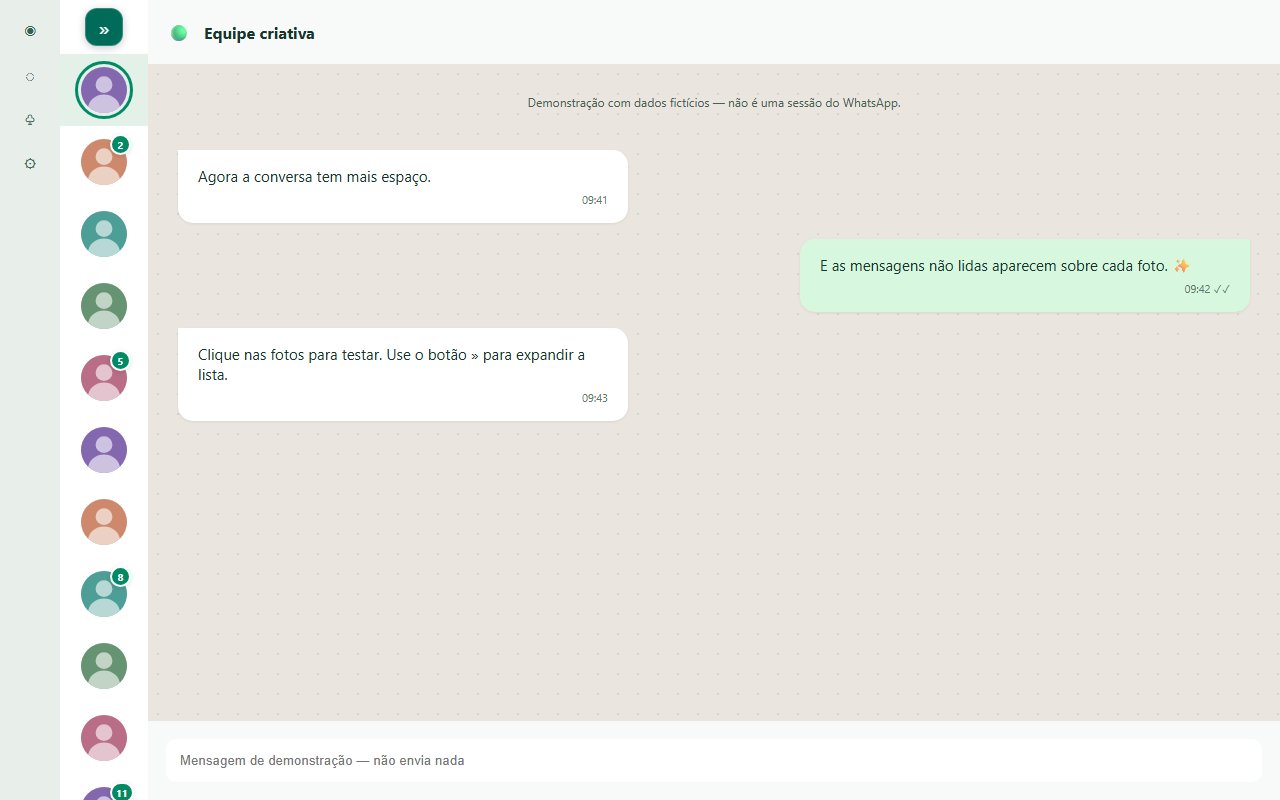
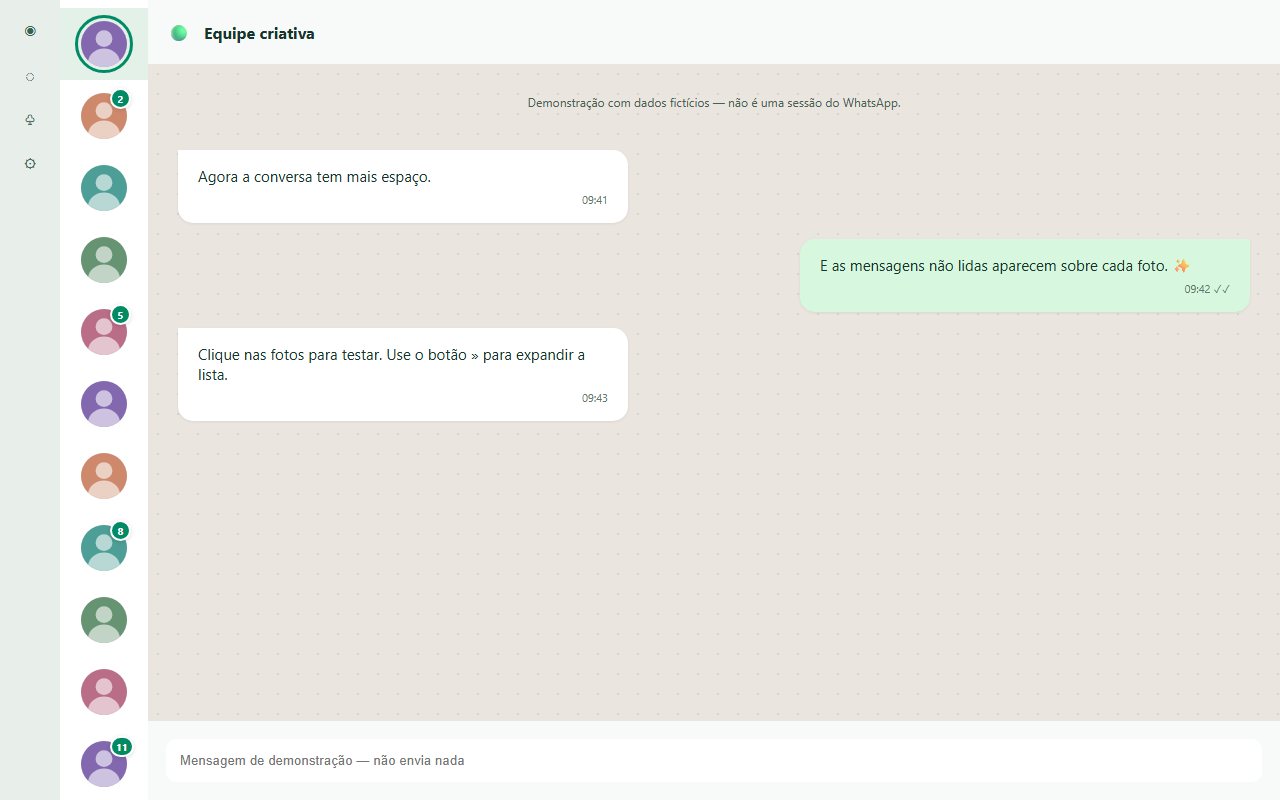
feat: lista sempre compacta, sem botão/atalho de expandir e sem corte em janelas estreitas (0.2.0)

Changed region(s): [[0.0312, 0.0, 0.125, 1.0]]

diff --git a/extension/content.js b/extension/content.js
@@ -11,9 +11,10 @@
     name: 'span[title], [data-testid="cell-frame-title"]',
     unread: '[aria-label], [data-testid="icon-unread-count"], [data-icon="unread-count"]'
   };
-  const defaults = { enabled: true, compact: true, width: 88 };
+  // Always compact while enabled: no expand/collapse button or shortcut. To search or start a chat, disable it in the popup.
+  const defaults = { enabled: true, width: 88 };
   let settings = { ...defaults };
-  let side, pane, column, host, toggle, status;
+  let side, pane, column;
   let timer = 0;
   const records = new Map();
   const hidden = new Set();
@@ -138,29 +139,6 @@
     row.toggleAttribute('data-wcs-selected', selected);
   }
 
-  function ensureToolbar() {
-    if (host?.isConnected) return;
-    host = document.createElement('div');
-    host.id = 'wcs-toolbar';
-    host.setAttribute('data-wcs-owned', '');
-    const root = host.attachShadow({ mode: 'open' });
-    const style = document.createElement('style');
-    style.textContent = `
-      :host { position:fixed; z-index:10000; font:13px system-ui,sans-serif; }
-      button { display:block; width:38px; height:38px; border:1px solid #ffffff35;
-        border-radius:12px; background:#006b58; color:white; font:22px system-ui;
-        cursor:pointer; box-shadow:0 2px 9px #0003; }
-      button:hover { background:#00856b; } button:focus-visible { outline:3px solid #7ce9c4; outline-offset:3px; }
-      #status { display:none; }`;
-    toggle = document.createElement('button');
-    toggle.type = 'button';
-    toggle.addEventListener('click', () => save({ compact: !settings.compact }));
-    status = document.createElement('span');
-    status.id = 'status';
-    root.append(style, toggle, status);
-    document.body.append(host);
-  }
-
   function render() {
     timer = 0;
     observer.disconnect(); // Our own attributes/overlays must not cause observer loops.
@@ -173,11 +151,10 @@
         column = side ? findColumn(side) : null;
       }
       if (!settings.enabled || !side || !pane || !side.contains(pane) || !side.getClientRects().length) {
-        restore(); host?.remove(); return;
+        restore(); return;
       }
-      ensureToolbar();
       const rows = getRows();
-      const active = settings.compact && innerWidth >= 700 && rows.length > 0;
+      const active = rows.length > 0;
       if (!active) restore();
       else {
         document.documentElement.setAttribute('data-wcs-active', '');
@@ -197,7 +174,7 @@
           }
         }
         // Current WhatsApp puts the list header (title, new chat, menu) beside #side, inside the
-        // column. It does not fit in the compact width, so hide it too (» brings it back).
+        // column. It does not fit in the compact width, so hide it too (disabling the extension brings it back).
         for (let node = side; node !== column && node.parentElement; node = node.parentElement) {
           for (const sibling of node.parentElement.children) {
             if (sibling !== node && !sibling.querySelector('#main') && !sibling.hasAttribute('data-wcs-owned')) {
@@ -211,39 +188,17 @@
         }
         rows.forEach(updateRow);
       }
-      const box = side.getBoundingClientRect();
-      host.style.left = `${Math.max(4, active ? box.left + (settings.width - 38) / 2 : box.right - 48)}px`;
-      host.style.top = `${Math.max(4, box.top + 8)}px`;
-      toggle.textContent = active ? '»' : '«';
-      const label = settings.compact ? 'Expandir conversas' : 'Recolher conversas';
-      toggle.title = `${label} (Alt+Shift+C)`;
-      toggle.setAttribute('aria-label', label);
-      toggle.setAttribute('aria-expanded', String(!active));
-      status.textContent = active ? 'compact' : 'expanded';
     } finally { observe(); }
-  }
-
-  async function save(change) {
-    settings = { ...settings, ...change };
-    schedule();
-    try { await chrome.storage.local.set(change); }
-    catch { /* Extension reload: local controls still work until page refresh. */ }
   }
 
   function normalize(values) {
     return {
       enabled: values.enabled !== false,
-      compact: values.compact !== false,
       width: [80, 88, 104].includes(Number(values.width)) ? Number(values.width) : 88
     };
   }
 
   window.addEventListener('resize', schedule);
-  document.addEventListener('keydown', event => {
-    if (event.altKey && event.shiftKey && event.code === 'KeyC' && !event.repeat) {
-      event.preventDefault(); save({ compact: !settings.compact });
-    }
-  });
   chrome.storage.onChanged.addListener((changes, area) => {
     if (area !== 'local') return;
     const next = { ...settings };

diff --git a/extension/popup.html b/extension/popup.html
@@ -5,12 +5,11 @@
   <header><span class="symbol" aria-hidden="true">◧</span><div><h1>Mais conversa.<br>Menos lateral.</h1><p>WhatsApp Compact Sidebar</p></div></header>
   <main>
     <label class="option"><span>Ativar extensão</span><input id="enabled" type="checkbox"></label>
-    <label class="option"><span>Mostrar só as fotos</span><input id="compact" type="checkbox"></label>
     <label class="width" for="width">Largura da lateral</label>
     <select id="width"><option value="80">Estreita · 80 px</option><option value="88">Confortável · 88 px</option><option value="104">Espaçosa · 104 px</option></select>
-    <p class="hint">Use <kbd>Alt</kbd> + <kbd>Shift</kbd> + <kbd>C</kbd> ou o botão na lateral para expandir e pesquisar conversas.</p>
+    <p class="hint">A lista fica sempre compacta. Para pesquisar, filtrar ou iniciar uma conversa nova, desative a extensão aqui.</p>
     <p id="status" role="status" aria-live="polite"></p>
   </main>
-  <footer>Local, sem IA e sem coleta de conversas.<br>Feito para JennIsCoding · v0.1.1</footer>
+  <footer>Local, sem IA e sem coleta de conversas.<br>Feito para JennIsCoding · v0.2.0</footer>
   <script src="popup.js"></script>
 </body></html>

diff --git a/extension/popup.js b/extension/popup.js
@@ -1,9 +1,9 @@
 'use strict';
-const fields = ['enabled', 'compact', 'width'];
+const fields = ['enabled', 'width'];
 const status = document.querySelector('#status');
 async function init() {
   try {
-    const values = await chrome.storage.local.get({ enabled: true, compact: true, width: 88 });
+    const values = await chrome.storage.local.get({ enabled: true, width: 88 });
     for (const key of fields) {
       const input = document.getElementById(key);
       if (input.type === 'checkbox') input.checked = values[key];

diff --git a/extension/content.css b/extension/content.css
@@ -13,7 +13,7 @@ html[data-wcs-active] [data-wcs-column-outer] {
 }
 html[data-wcs-active] [data-wcs-side] {
   box-sizing: border-box !important;
-  padding-top: 54px !important;
+  padding-top: 8px !important;
 }
 html[data-wcs-active] [data-wcs-hide] { display: none !important; }
 /* WhatsApp keeps a transparent drawer panel over the chat whose left border used to sit behind the

diff --git a/README.md b/README.md
@@ -2,7 +2,7 @@
 
 Extensão pessoal para deixar a lista de conversas do WhatsApp Web estreita, com avatares e contadores de mensagens não lidas sobre as fotos. Mais espaço para a conversa aberta.
 
-**Versão 0.1.1 — experimental.** Em uso no WhatsApp Web real (Chrome, tema escuro) desde outubro de 2026, além dos testes automáticos numa simulação com dados fictícios. Não é uma extensão oficial da Meta/WhatsApp.
+**Versão 0.2.0 — experimental.** Em uso no WhatsApp Web real (Chrome, tema escuro) desde outubro de 2026, além dos testes automáticos numa simulação com dados fictícios. Não é uma extensão oficial da Meta/WhatsApp.
 
 ![Lista compacta na simulação dos testes](docs/compact.png)
 
@@ -20,15 +20,13 @@ Não é necessário instalar Node, executar comandos ou pagar para usar. Mantenh
 
 ## Usar
 
-- A lateral começa compacta, com 88 px. Clique numa foto para abrir a conversa.
+- A lateral fica **sempre compacta**, com 88 px, em qualquer tamanho de janela. Clique numa foto para abrir a conversa.
 - O contador mostra o indicador de não lidas já fornecido pelo WhatsApp (não é uma notificação do sistema operacional). Quando não há quantidade, aparece uma bolinha.
 - Passe o mouse para ver o nome do contato e o indicador de não lidas.
-- No modo compacto, o cabeçalho da lista (título, nova conversa e menu ⋮), a pesquisa e os filtros ficam escondidos.
-- Clique em **»** para expandir e acessar pesquisa, filtros e demais controles originais. **«** recolhe novamente.
-- Atalho: **Alt + Shift + C**, dentro da página.
+- O cabeçalho da lista (título, nova conversa e menu ⋮), a pesquisa e os filtros ficam escondidos. Não há botão de expandir: para pesquisar, filtrar ou iniciar uma conversa nova, desmarque **Ativar extensão** no ícone dela e marque de novo depois.
 - No ícone da extensão, altere a largura (80, 88 ou 104 px) ou desative a personalização.
 - A barra nativa de navegação por ícones permanece disponível.
-- Em janelas menores que 700 px e em listas não reconhecidas/vazias, o layout original é preservado.
+- Em listas não reconhecidas ou vazias, o layout original é preservado.
 
 ## Privacidade
 
@@ -44,7 +42,7 @@ Estrutura do WhatsApp Web considerada (outubro de 2026): a coluna da lista empil
 
 Se o layout quebrar depois de uma atualização do WhatsApp, o jeito mais rápido de diagnosticar é olhar a estrutura da página (tags, `id`, `role`, `data-testid`, posição e tamanho dos ancestrais de `#side` e das linhas) no console do navegador e comparar com `tests/fixture.html`.
 
-Se algo ficar estranho: expanda com **Alt + Shift + C** ou desative a extensão no painel e recarregue a página. Para remover, vá a `chrome://extensions`, clique em **Remover** e recarregue o WhatsApp. Após atualizar os arquivos, clique em **Recarregar** no cartão da extensão e recarregue também o WhatsApp.
+Se algo ficar estranho: desative a extensão no painel e recarregue a página. Para remover, vá a `chrome://extensions`, clique em **Remover** e recarregue o WhatsApp. Após atualizar os arquivos, clique em **Recarregar** no cartão da extensão e recarregue também o WhatsApp.
 
 ## Desenvolvimento
 
@@ -66,9 +64,10 @@ Estrutura:
 - `tests/extension.test.mjs`: testes de comportamento.
 - `scripts/package.mjs`: copia os arquivos para `dist/extension` com `npm run package`.
 
-Já validado no WhatsApp real: lista compacta com fotos, troca de conversa, expandir/recolher e tema escuro. Ainda falta conferir: grupos sem foto, recebimento de mensagens e contadores ao vivo, conversas arquivadas, filtros, pesquisa, rolagem longa, tema claro e o painel de dados do contato aberto.
+Já validado no WhatsApp real: lista compacta com fotos, troca de conversa e tema escuro. Ainda falta conferir: grupos sem foto, recebimento de mensagens e contadores ao vivo, conversas arquivadas, filtros, pesquisa, rolagem longa, tema claro e o painel de dados do contato aberto.
 
 ## Histórico
 
+- **0.2.0** — Lista sempre compacta: saem o botão de expandir/recolher, o atalho Alt + Shift + C, a opção "Mostrar só as fotos" e o corte em janelas menores que 700 px (que desfazia o layout ao diminuir ou minimizar a janela).
 - **0.1.1** — Corrige o layout no WhatsApp Web atual: a lista ficava com 88 px de altura (só uma foto aparecia), o cabeçalho com o botão de nova conversa vazava por cima do chat e aparecia um risco vertical no meio da conversa.
 - **0.1.0** — Primeira versão: lateral compacta com avatares, contadores de não lidas, atalho Alt + Shift + C e painel de opções.
